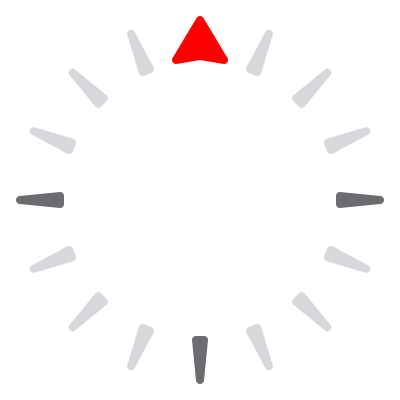
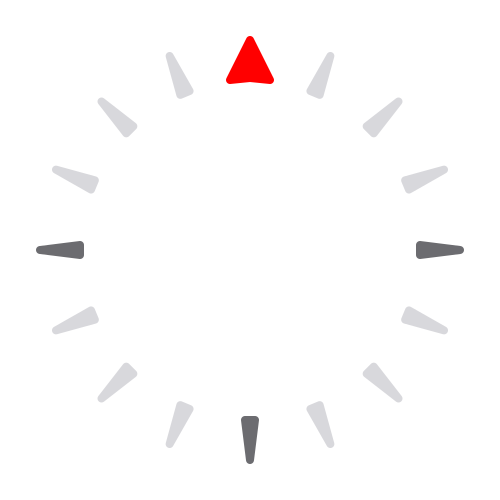
Fix cardDirText with rotation

diff --git a/lib/page/home_page/map_compass.dart b/lib/page/home_page/map_compass.dart
@@ -79,35 +79,37 @@ class _MapCompassState extends ConsumerState<MapCompass> with TickerProviderStat
       alignment: widget.alignment,
       child: Padding(
         padding: widget.padding,
-        child: Transform.rotate(
-          angle: degToRadian(camera.rotation + widget.rotationOffset),
-          child: IconButton(
+        child: IconButton(
+          alignment: Alignment.center,
+          padding: EdgeInsets.zero,
+          icon: Stack(
             alignment: Alignment.center,
-            padding: EdgeInsets.zero,
-            icon: widget.icon ?? PlatformWidget(
-              cupertino: (_, __) => Stack(
-                alignment: Alignment.center,
-                children: [SizedBox(height: 50, child: Image(image: View.of(context).platformDispatcher.platformBrightness == Brightness.light
+            children: [
+              Transform.rotate(
+                angle: degToRadian(camera.rotation + widget.rotationOffset),
+                child: widget.icon ?? PlatformWidget(
+                  cupertino: (_, __) => SizedBox(height: 50, child: Image(image: View.of(context).platformDispatcher.platformBrightness == Brightness.light
                   ? const AssetImage("assets/image/cupertino_compass.png")
                   : const AssetImage("assets/image/cupertino_compass_dark.png"))),
-                  cardDirText(camera, context)
-                ]
-              ),
-              material: (_, __) => Transform.rotate(
-                angle: degToRadian(-45.0),
-                child: Stack(
-                  alignment: Alignment.center,
-                  children: [
-                    const Icon(CupertinoIcons.compass, color: Colors.red, size: 50),
-                    Icon(CupertinoIcons.compass_fill, color: theme.colorScheme.surface, size: 50),
-                    Icon(CupertinoIcons.circle, color: theme.colorScheme.surface, size: 52),
-                  ],
+                  material: (_, __) => Transform.rotate(
+                    angle: degToRadian(-45.0),
+                    child: Stack(
+                      alignment: Alignment.center,
+                      children: [
+                        const Icon(CupertinoIcons.compass, color: Colors.red, size: 50),
+                        Icon(CupertinoIcons.compass_fill, color: theme.colorScheme.surface, size: 50),
+                        Icon(CupertinoIcons.circle, color: theme.colorScheme.surface, size: 52),
+                      ],
+                    ),
+                  ),
                 ),
               ),
-            ),
-            onPressed:
-                widget.onPressed ?? () => _resetRotation(camera),
+              // Show cardinal dir letter if default iOS compass or if custom compass and showCardDir enabled
+              if (widget.icon == null && isCupertino(context) || widget.icon != null && widget.showCardDir) cardDirText(camera, context)
+            ]
           ),
+          onPressed:
+              widget.onPressed ?? () => _resetRotation(camera),
         ),
       ),
     );
@@ -130,7 +132,7 @@ class _MapCompassState extends ConsumerState<MapCompass> with TickerProviderStat
         : CupertinoColors.systemGrey.darkHighContrastColor
       : Theme.of(context).colorScheme.onSurface; 
 
-    return Text(letter, style: TextStyle(color: color));
+    return Text(letter, style: TextStyle(color: color, fontSize: 20), textAlign: TextAlign.center);
   }
 
   void _resetRotation(MapCamera camera) {

diff --git a/lib/consts.dart b/lib/consts.dart
@@ -14,6 +14,7 @@ const kApiUrl = "https://forestpark.cecs.pdx.edu/staging/v1";
 // TODO Maybe move this over to the settings page or only set on debug
 const kPlatformOverride = null;
 // const kPlatformOverride = TargetPlatform.android;
+// const kPlatformOverride = TargetPlatform.iOS;
 
 // Example: 11:53 AM July 12 2022
 final DateFormat kDisplayDateFormat = DateFormat('hh:mm a MMMM dd y');
